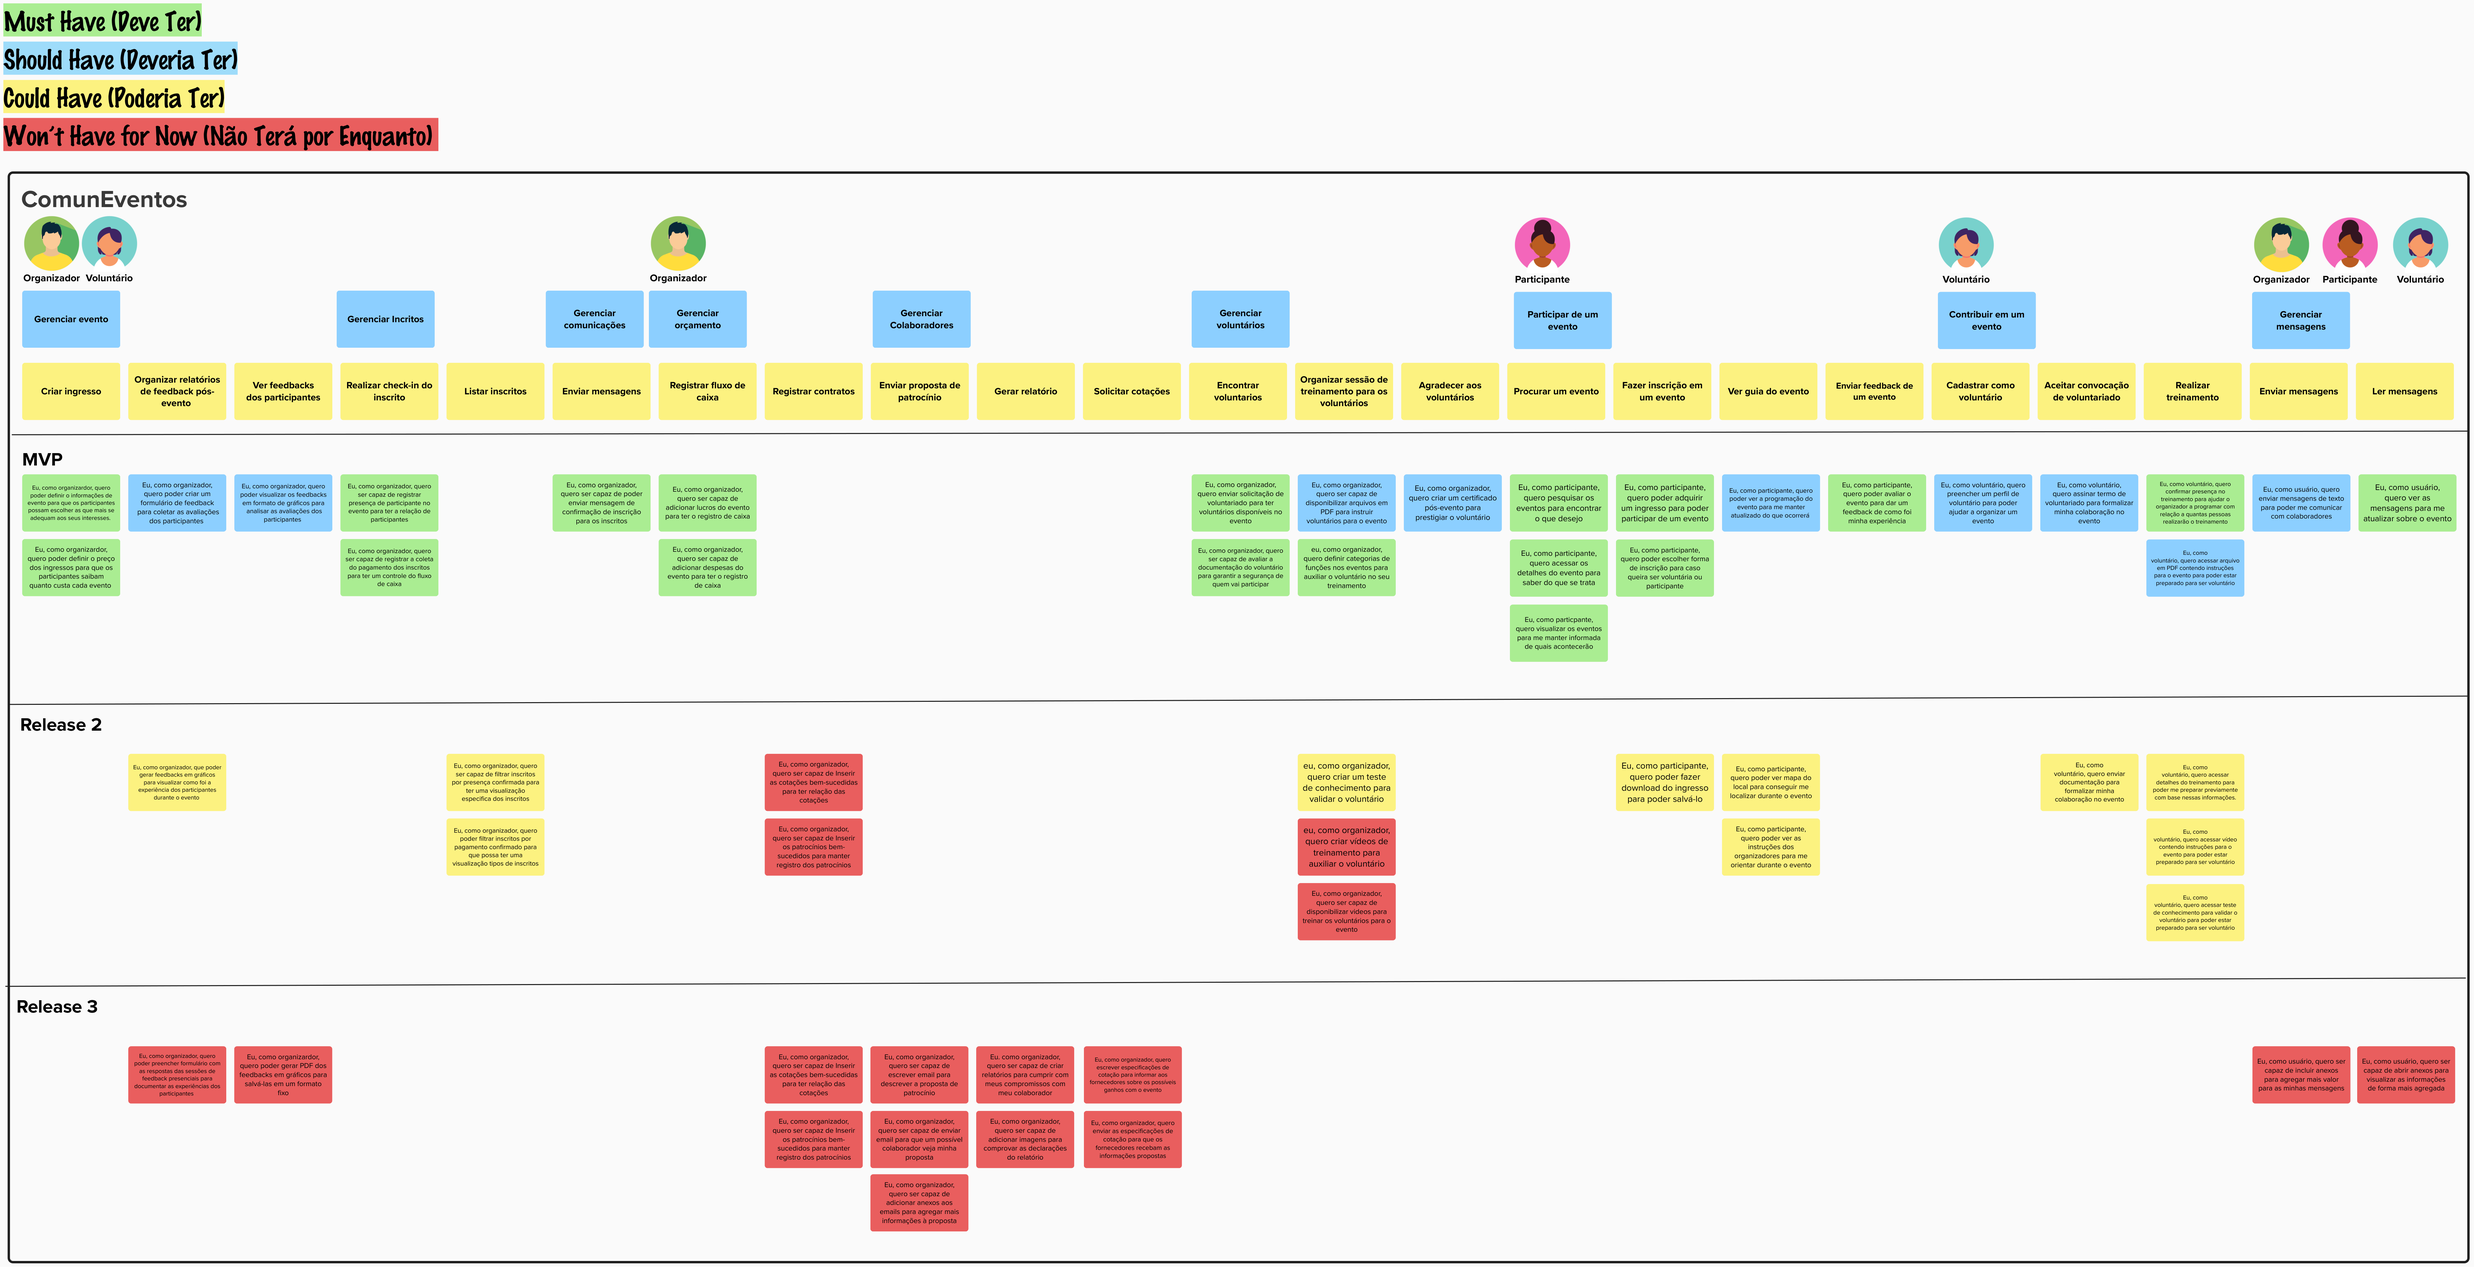
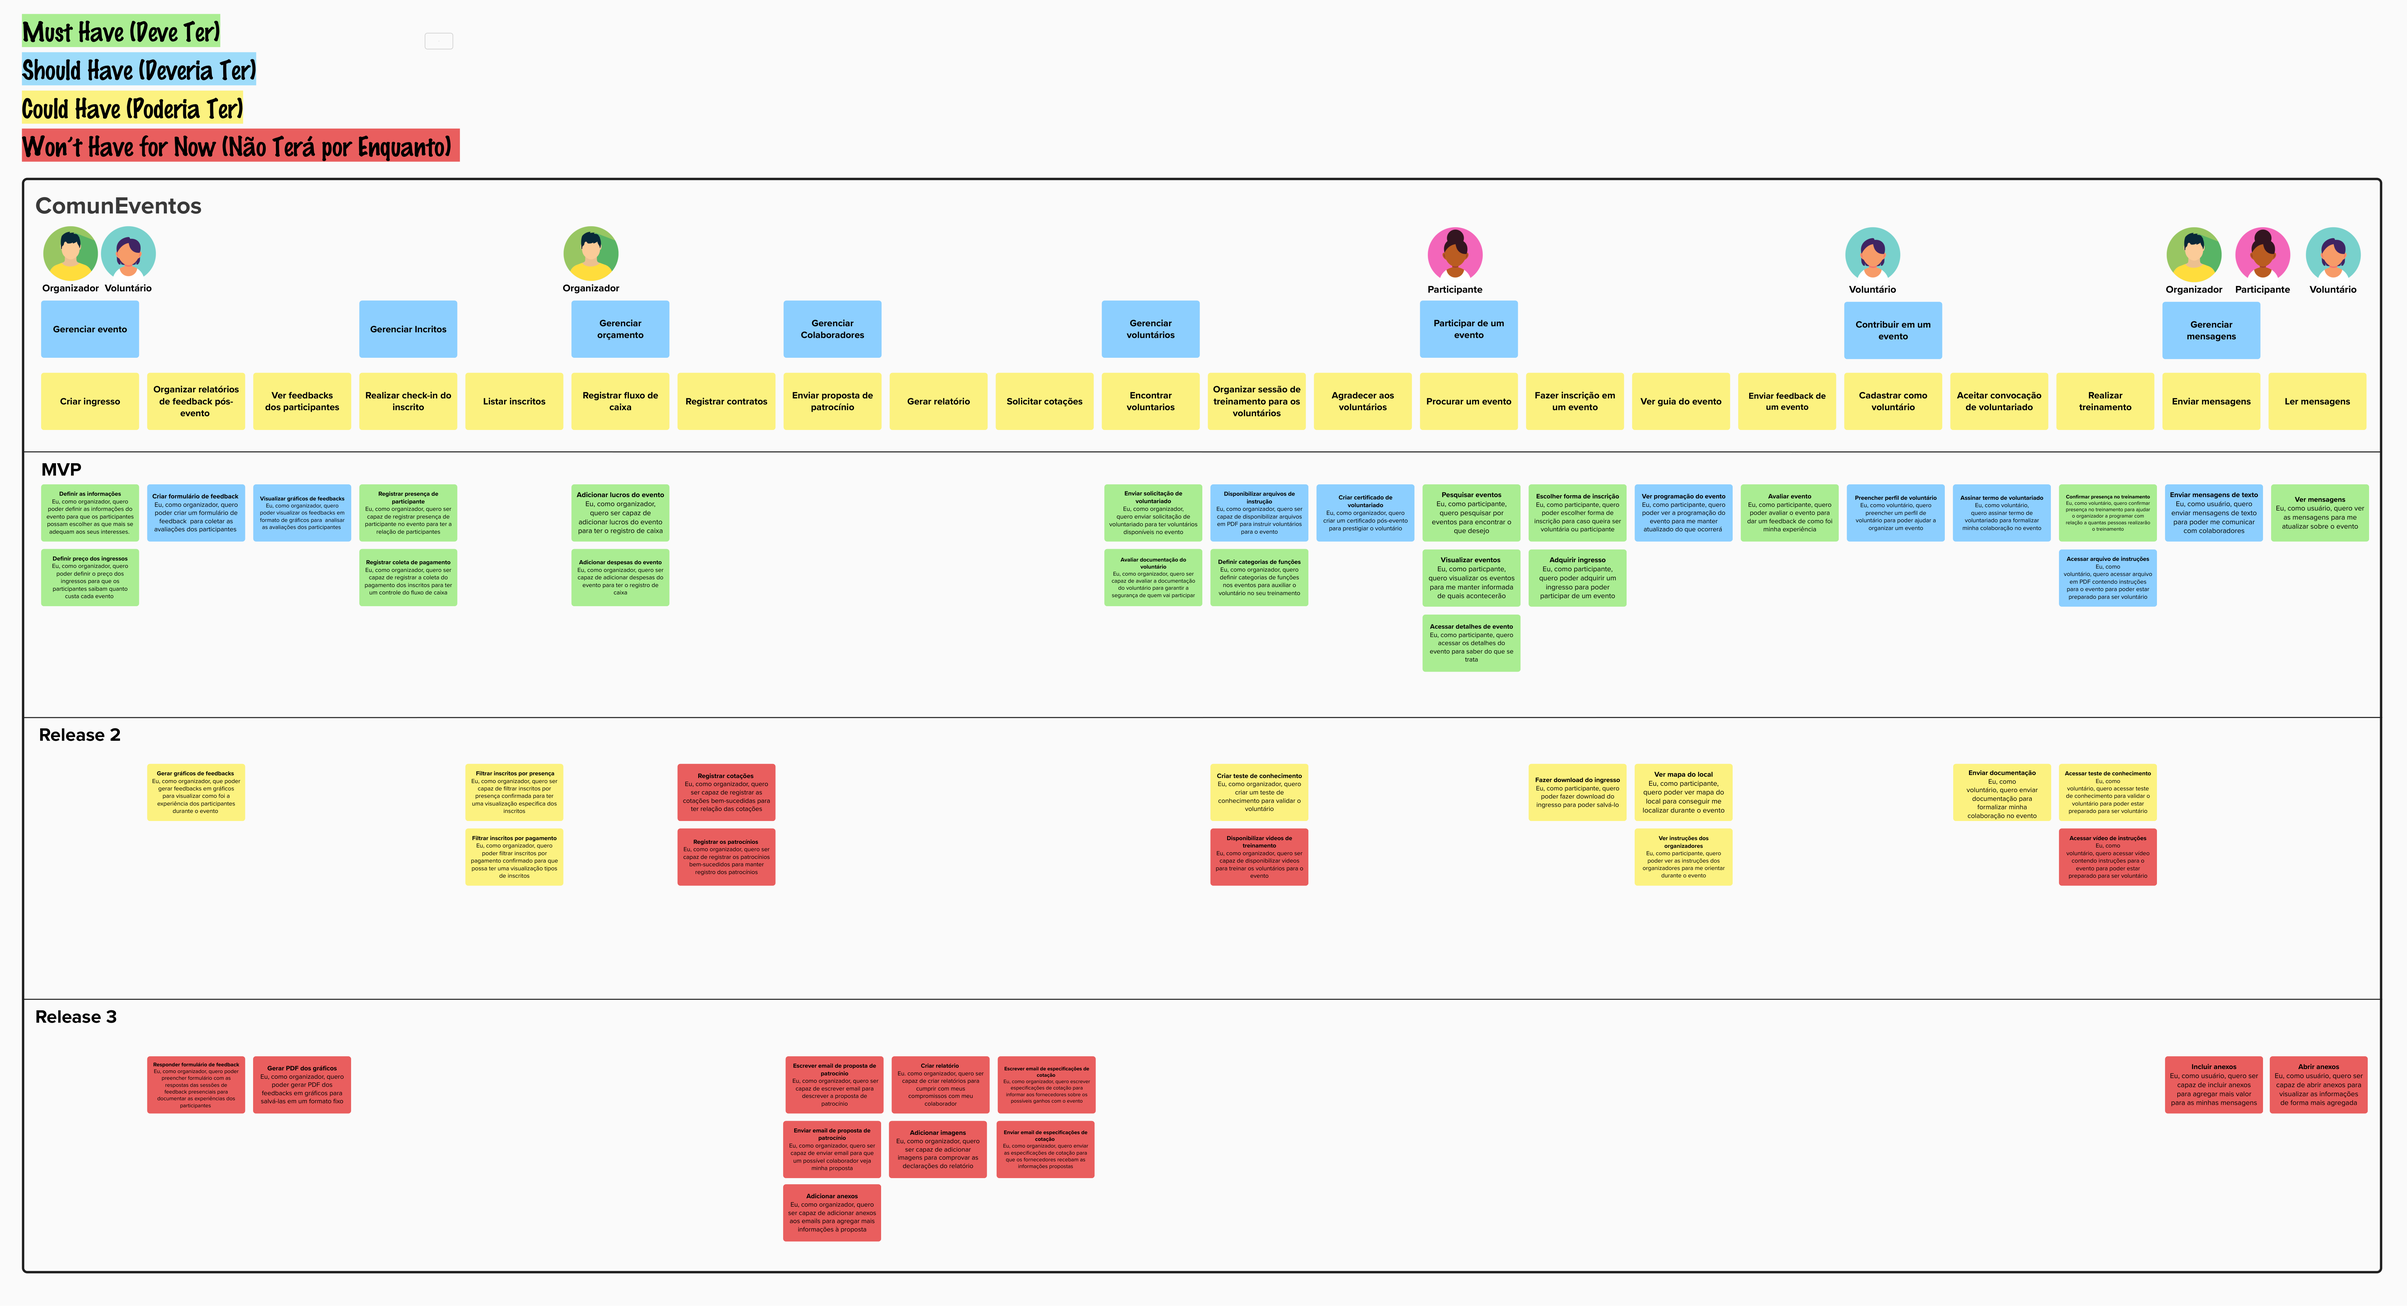
fix: usm e tabela de histórias #57 #60

diff --git a/docs/usm.md b/docs/usm.md
@@ -8,49 +8,82 @@ hide:
 ## Introdução
 <p align="justify">&emsp;&emsp; É proposto pelo professor George Marsicano a criação do User Story Mapping (USM) relacionado ao estudo de caso "ComunEventos" pela facção Insurgentes Estelares. </p>
 
+## Resumo
 
-## ComunEventos
-__Características:__
-Plataforma online para otimizar a organização e promoção de eventos comunitáriosEcossistema digital no qual os membros da comunidade se encontrem, colaborem e participem de eventos que ressoem com seus valores e interesses
-Problemas: 
+<img src="../assets/usm/usm.png">
 
-__Escala de Organização:__ gerenciamento de múltiplas ferramentas, em sua maioria não projetadas especificamente para eventos; Sistemas manuais como telefonemas e inscrições físicas.
+<p><b>Figura 1:</b> Breve resumo do produto. </p>
 
-__Barreiras Financeiras:__ Ferramentas especializadas caras;
+## Tabela de Histórias
+<p align="justify">&emsp;&emsp; Para facilitar a leitura do mapa, devido em imagem ser difícil visualizar, transformamos o User Story Mapping em na Tabela 1. </p>
 
-Engajamento: Processo de inscrição e participação frequentemente possui múltiplos passos e plataformas, incluindo necessidade de downloads adicionais.
+<table><tr><th><b>Usuário</b></th><th><b>Atividade</b></th><th><b>Jornada do Usuário</b></th><th><b>Título da Tarefa do Usuário</b></th><th><b>História do Usuário</b></th></tr>
+<tr><td rowspan="11"><b>Organizador e voluntário</b></td><td rowspan="7"><b>Gerenciar evento</b></td><td rowspan="2"><b>Criar ingresso</b></td><td><b>Definir as informações</b></td><td>Eu, como organizador, quero poder definir as informações do evento para que os participantes possam escolher as que mais se adequam aos seus interesses.</td></tr>
+<tr><td><b>Definir preço dos ingressos</b></td><td>Eu, como organizador, quero poder definir o preço dos ingressos para que os participantes saibam quanto custa cada evento</td></tr>
+<tr><td rowspan="3"><b>Organizar relatórios de feedback pós-evento</b></td><td><b>Criar formulário de feedback</b></td><td>Eu, como organizador, quero poder criar um formulário de feedback  para coletar as avaliações dos participantes</td></tr>
+<tr><td><b>Gerar gráficos de feedbacks</b></td><td>Eu, como organizador, que poder gerar feedbacks em gráficos para visualizar como foi a experiência dos participantes durante o evento</td></tr>
+<tr><td><b>Responder formulário de feedback</b></td><td>Eu, como organizador, quero poder preencher formulário com as respostas das sessões de feedback presenciais para documentar as experiências dos participantes</td></tr>
+<tr><td rowspan="2"><b>Ver feedbacks dos participantes</b></td><td><b>Visualizar gráficos de feedbacks</b></td><td>Eu, como organizador, quero poder visualizar os feedbacks em formato de gráficos para  analisar as avaliações dos participantes</td></tr>
+<tr><td><b>Gerar PDF dos gráficos</b></td><td>Eu, como organizador, quero poder gerar PDF dos feedbacks em gráficos para salvá-las em um formato fixo</td></tr>
+<tr><td rowspan="4"><b>Gerenciar Inscritos</b></td><td rowspan="2"><b>Realizar check-in do inscrito</b></td><td><b>Registrar presença de participante</b></td><td>Eu, como organizador, quero ser capaz de registrar presença de participante no evento para ter a relação de participantes</td></tr>
+<tr><td><b>Registrar coleta de pagamento</b></td><td>Eu, como organizador, quero ser capaz de registrar a coleta do pagamento dos inscritos para ter um controle do fluxo de caixa</td></tr>
+<tr><td rowspan="2"><b>Listar inscritos</b></td><td><b>Filtrar inscritos por presença</b></td><td>Eu, como organizador, quero ser capaz de filtrar inscritos por presença confirmada para ter uma visualização especifica dos inscritos</td></tr>
+<tr><td><b>Filtrar inscritos por pagamento</b></td><td>Eu, como organizador, quero poder filtrar inscritos por pagamento confirmado para que possa ter uma visualização tipos de inscritos</td></tr>
+<tr><td rowspan="18"><b>Organizador</b></td><td rowspan="4"><b>Gerenciar orçamento</b></td><td rowspan="2"><b>Registrar fluxo de caixa</b></td><td><b>Adicionar lucros do evento</b></td><td>Eu, como organizador, quero ser capaz de adicionar lucros do evento para ter o registro de caixa</td></tr>
+<tr><td><b>Adicionar despesas do evento</b></td><td>Eu, como organizador, quero ser capaz de adicionar despesas do evento para ter o registro de caixa</td></tr>
+<tr><td rowspan="2"><b>Registrar contratos</b></td><td><b>Registrar cotações</b></td><td>Eu, como organizador, quero ser capaz de registrar as cotações bem-sucedidas para ter relação das cotações</td></tr>
+<tr><td><b>Registrar os patrocínios</b></td><td>Eu, como organizador, quero ser capaz de registrar os patrocínios bem-sucedidos para manter registro dos patrocínios</td></tr>
+<tr><td rowspan="7"><b>Gerenciar Colaboradores</b></td><td rowspan="3"><b>Enviar proposta de patrocínio</b></td><td><b>Escrever email de proposta de patrocínio</b></td><td>Eu, como organizador, quero ser capaz de escrever email para descrever a proposta de patrocínio</td></tr>
+<tr><td><b>Enviar email de proposta de patrocínio</b></td><td>Eu, como organizador, quero ser capaz de enviar email para que um possível colaborador veja minha proposta</td></tr>
+<tr><td><b>Adicionar anexos</b></td><td>Eu, como organizador, quero ser capaz de adicionar anexos aos emails para agregar mais informações à proposta</td></tr>
+<tr><td rowspan="2"><b>Gerar relatório</b></td><td><b>Criar relatório</b></td><td>Eu. como organizador, quero ser capaz de criar relatórios para cumprir com meus compromissos com meu colaborador</td></tr>
+<tr><td><b>Adicionar imagens</b></td><td>Eu, como organizador, quero ser capaz de adicionar imagens para comprovar as declarações do relatório</td></tr>
+<tr><td rowspan="2"><b>Solicitar cotações</b></td><td><b>Enviar email de especificações de cotação</b></td><td>Eu, como organizador, quero enviar as especificações de cotação para que os fornecedores recebam as informações propostas</td></tr>
+<tr><td><b>Escrever email de especificações de cotação</b></td><td>Eu, como organizador, quero escrever especificações de cotação para informar aos fornecedores sobre os possíveis ganhos com o evento</td></tr>
+<tr><td rowspan="7"><b>Gerenciar voluntários</b></td><td rowspan="2"><b>Encontrar voluntários</b></td><td><b>Enviar solicitação de voluntariado</b></td><td>Eu, como organizador, quero enviar solicitação de voluntariado para ter voluntários disponíveis no evento</td></tr>
+<tr><td><b>Avaliar documentação do voluntário</b></td><td>Eu, como organizador, quero ser capaz de avaliar a documentação do voluntário para garantir a segurança de quem vai participar</td></tr>
+<tr><td rowspan="4"><b>Organizar sessão de treinamento para os voluntários</b></td><td><b>Disponibilizar arquivos de instrução</b></td><td>Eu, como organizador, quero ser capaz de disponibilizar arquivos em PDF para instruir voluntários para o evento</td></tr>
+<tr><td><b>Definir categorias de funções</b></td><td>Eu, como organizador, quero definir categorias de funções nos eventos para auxiliar o voluntário no seu treinamento</td></tr>
+<tr><td><b>Criar teste de conhecimento</b></td><td>Eu, como organizador, quero criar um teste de conhecimento para validar o voluntário</td></tr>
+<tr><td><b>Disponibilizar vídeos de treinamento</b></td><td>Eu, como organizador, quero ser capaz de disponibilizar vídeos para treinar os voluntários para o evento</td></tr>
+<tr><td><b>Agradecer aos voluntários</b></td><td><p><b>Criar certificado de voluntariado</b></p><p></p></td><td>Eu, como organizador, quero criar um certificado pós-evento para prestigiar o voluntário</td></tr>
+<tr><td rowspan="10"><b>Participante</b></td><td rowspan="10"><b>Participar de um evento</b></td><td rowspan="3"><b>Procurar um evento</b></td><td><b>Pesquisar eventos</b></td><td>Eu, como participante, quero pesquisar por eventos para encontrar o que desejo</td></tr>
+<tr><td><b>Visualizar eventos</b></td><td>Eu, como participante, quero visualizar os eventos para me manter informada de quais acontecerão</td></tr>
+<tr><td><b>Acessar detalhes de evento</b></td><td>Eu, como participante, quero acessar os detalhes do evento para saber do que se trata</td></tr>
+<tr><td rowspan="3"><b>Fazer inscrição em um evento</b></td><td><b>Escolher forma de inscrição</b></td><td>Eu, como participante, quero poder escolher forma de inscrição para caso queira ser voluntária ou participante</td></tr>
+<tr><td><b>Adquirir ingresso</b></td><td>Eu, como participante, quero poder adquirir um ingresso para poder participar de um evento</td></tr>
+<tr><td><b>Fazer download do ingresso</b></td><td>Eu, como participante, quero poder fazer download do ingresso para poder salvá-lo</td></tr>
+<tr><td rowspan="3"><b>Ver guia do evento</b></td><td><b>Ver mapa do local</b></td><td>Eu, como participante, quero poder ver mapa do local para conseguir me localizar durante o evento</td></tr>
+<tr><td><b>Ver instruções dos organizadores</b></td><td>Eu, como participante, quero poder ver as instruções dos organizadores para me orientar durante o evento</td></tr>
+<tr><td><b>Ver programação do evento</b></td><td>Eu, como participante, quero poder ver a programação do evento para me manter atualizado do que ocorrerá</td></tr>
+<tr><td><b>Enviar feedback de um evento</b></td><td><b>Avaliar evento</b></td><td>Eu, como participante, quero poder avaliar o evento para dar um feedback de como foi minha experiência</td></tr>
+<tr><td rowspan="7"><b>Voluntário</b></td><td rowspan="7"><b>Contribuir em um evento</b></td><td><b>Cadastrar como voluntário</b></td><td><b>Preencher perfil de voluntário</b></td><td>Eu, como voluntário, quero preencher um perfil de voluntário para poder ajudar a organizar um evento</td></tr>
+<tr><td rowspan="2"><b>Aceitar convocação de voluntariado</b></td><td><b>Assinar termo de voluntariado</b></td><td>Eu, como voluntário, quero assinar termo de voluntariado para formalizar minha colaboração no evento</td></tr>
+<tr><td><p><b>Enviar documentação</b></p><p></p></td><td>Eu, como voluntário, quero enviar documentação para formalizar minha colaboração no evento</td></tr>
+<tr><td rowspan="4"><b>Realizar treinamento</b></td><td><b>Confirmar presença no treinamento</b></td><td>Eu, como voluntário, quero confirmar presença no treinamento para ajudar o organizador a programar com relação a quantas pessoas realizarão o treinamento</td></tr>
+<tr><td><b>Acessar arquivo de instruções</b></td><td>Eu, como voluntário, quero acessar arquivo em PDF contendo instruções para o evento para poder estar preparado para ser voluntário</td></tr>
+<tr><td><b>Acessar teste de conhecimento</b></td><td>Eu, como voluntário, quero acessar teste de conhecimento para validar o voluntário para poder estar preparado para ser voluntário</td></tr>
+<tr><td><b>Acessar vídeo de instruções</b></td><td>Eu, como voluntário, quero acessar vídeo contendo instruções para o evento para poder estar preparado para ser voluntário</td></tr>
+<tr><td rowspan="4"><b>Organizador, voluntário e participante</b></td><td rowspan="4"><b>Gerenciar mensagens</b></td><td rowspan="2"><b>Enviar mensagens</b></td><td><b>Enviar mensagens de texto</b></td><td>Eu, como usuário, quero enviar mensagens de texto para poder me comunicar com colaboradores</td></tr>
+<tr><td><b>Incluir anexos</b></td><td>Eu, como usuário, quero ser capaz de incluir anexos para agregar mais valor para as minhas mensagens</td></tr>
+<tr><td rowspan="2"><b>Ler mensagens</b></td><td><b>Abrir anexos</b></td><td>Eu, como usuário, quero ser capaz de abrir anexos para visualizar as informações de forma mais agregada</td></tr>
+<tr><td><b>Ver mensagens</b></td><td>Eu, como usuário, quero ver as mensagens para me atualizar sobre o evento</td></tr>
+</table>
 
-__Colaboração e Comunicação:__ Canais de comunicação dispersos que podem levar a mensagens perdidas, duplicação de esforços e falta de alinhamento entre as partes envolvidas, tornando a colaboração menos eficiente
+<p><b>Tabela 1:</b> Tabela do mapa de histórias. </p>
 
-__Benefícios do produto para o cliente:__
-Consolida a fragmentação da organização de eventos, integrando todas as ferramentas necessárias em uma única plataforma. Remove barreiras financeiras, tornando a plataforma acessível para eventos de todos os tamanhos e orçamentos.
-Melhora o engajamento dos participantes, proporcionando uma experiência de usuário contínua e intuitiva.
-Estimula a colaboração local, incentivando parcerias com fornecedores locais, patrocinadores e voluntários.
+## Priorização 
 
-## Personas
+<p align="justify">&emsp;&emsp; Para organizar e atualizar o Backlog, realizamos a priorização das histórias de usuário do User Story Mapping utilizando a técnica MoSCoW para determinar a sua prioridade, os critérios utilizados para definir o que seria Must, Should, Could ou Would foram o <b>valor de negócio</b>, a <b>complexidade</b>e e a <b>viabilidade</b>, tendo um maior peso os que possuiam valor de negócio que ajudava a cumprir os objetivos e necessidades mais urgentes do cliente. A execução da técnica pode ser vista na Figura 2.</p>
 
-Foram definidas as seguintes personas, considerando o *Organizador* como a mais importante para o processo de negócios da ComunEventos
+<img src="../assets/usm/usm-mvp.png">
 
-![Recepcionista](../assets/usm/Porganizador.png)
-
-![Médico](../assets/usm/Pparticipante.png)
-
-![Farmacêutica](../assets/usm/Pvoluntario.png)
-
-## Objetivos
-
-![Farmacêutica](../assets/usm/usm.png)
-
-
-# Priorização
-
-<p align="justify">&emsp;&emsp; Para organizar e atualizar o Backlog, realizamos a priorização das histórias de usuário do User Story Mapping utilizando a técnica MoSCoW para determinar a sua prioridade, os critérios utilizados para definir o que seria Must, Should, Could ou Would foram o <b>valor de negócio</b>, a <b>complexidade</b>e e a <b>viabilidade</b>, tendo um maior peso os que possuiam valor de negócio que ajudava a cumprir os objetivos e necessidades mais urgentes do cliente. A execução da técnica pode ser vista na Figura 1</p>
-
-![mvp](../assets/usm/usm-mvp.png)
+<p><b>Figura 2:</b> USM completo. </p>
 
 # Mural
 
 Segue abaixo o Mural que possui tudo o que foi apresentado:
+
 <iframe src='https://app.mural.co/embed/c653020b-a547-4921-bb0e-192b39e67f41'
   width='100%'
   height='480px'
@@ -61,9 +94,9 @@ Segue abaixo o Mural que possui tudo o que foi apresentado:
 
 | Data  | Versão | Descrição                            | Autor                          |
 | :---: | :----: | ------------------------------------ | ------------------------------ |
-| 19/11 |  1.0   | Criação do artefato USM| Gustavo França |
-| 22/11 |  1.1   | Atualização do artefato USM| Gustavo França |
-
+| 19/11 |  1.0   | Criação do artefato USM | Gustavo França |
+| 22/11 |  1.1   | Atualização do artefato USM | Gustavo França |
+| 05/11 |  2.0   | Adição da tabela e correção do USM | Larissa Gomes |
 
 
 
